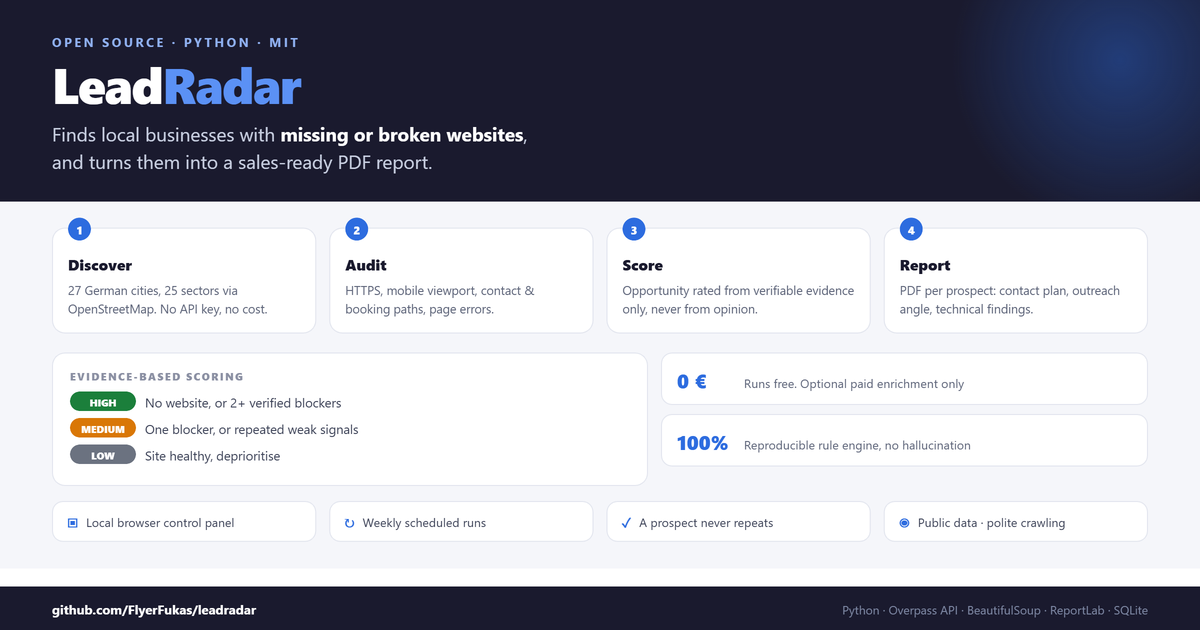
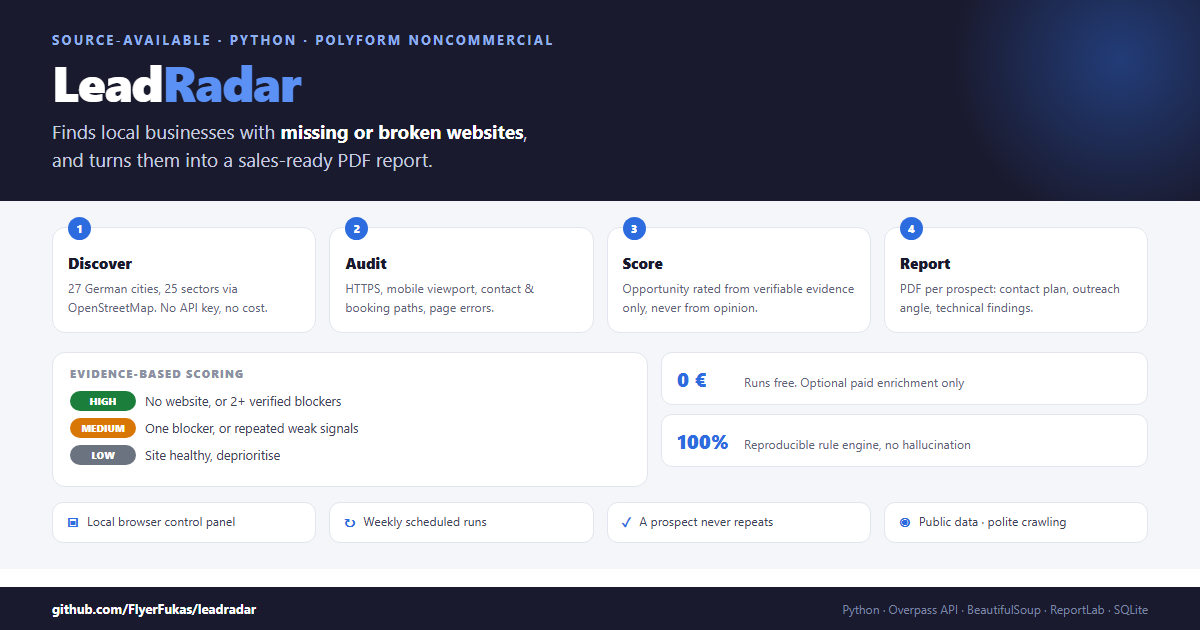
README: report image, result and demo command up top; cover no longer says MIT; repair punctuation left by dash removal

diff --git a/docs/cover-source.html b/docs/cover-source.html
@@ -38,7 +38,7 @@ h1 span{color:#5b91f5}
 .foot .stack{color:#7d87a3;font-size:12px}
 </style></head><body><div class="wrap">
 <div class="top">
-  <div class="eyebrow">OPEN SOURCE &middot; PYTHON &middot; MIT</div>
+  <div class="eyebrow">SOURCE-AVAILABLE &middot; PYTHON &middot; POLYFORM NONCOMMERCIAL</div>
   <h1>Lead<span>Radar</span></h1>
   <div class="tag">Finds local businesses with <b>missing or broken websites</b>,<br>
   and turns them into a sales-ready PDF report.</div>

diff --git a/README.md b/README.md
@@ -1,6 +1,6 @@
 # LeadRadar
 
-![LeadRadar — local business lead discovery & enrichment](docs/cover.png)
+![LeadRadar: local business lead discovery & enrichment](docs/cover.png)
 
 [![License: PolyForm Noncommercial](https://img.shields.io/badge/License-PolyForm%20Noncommercial-orange.svg)](LICENSE)
 [![Commercial use: licence required](https://img.shields.io/badge/Commercial%20use-licence%20required-red.svg)](COMMERCIAL.md)
@@ -8,7 +8,7 @@
 [![Data: OpenStreetMap](https://img.shields.io/badge/Data-OpenStreetMap-7EBC6F?logo=openstreetmap&logoColor=white)](https://www.openstreetmap.org/copyright)
 [![Platform](https://img.shields.io/badge/Platform-Windows%20%7C%20macOS%20%7C%20Linux-lightgrey)](#quick-start)
 
-**Local business lead discovery & enrichment.** Pick a city and a set of sectors
+**Local business lead discovery & enrichment.** Pick a city and a set of sectors:
 LeadRadar finds businesses with **missing or broken websites**, scores the opportunity
 from verifiable evidence, and produces a **sales-ready PDF report**.
 
@@ -16,11 +16,25 @@ Built for web designers, digital agencies, and local B2B sales teams.
 
 > 🇹🇷 Türkçe sürüm: [README.tr.md](README.tr.md)
 
+![One page of the generated PDF report](docs/report.png)
+
+**Result:** every prospect gets one page with its evidence. A score of HIGH needs
+either no website at all or at least two verified technical blockers; subjective
+signals such as an old copyright year are marked `[HEURISTIC]` and can never
+produce HIGH on their own (rules in `leadradar/score.py`).
+
+```bash
+py run.py --limit 5    # scans 5 prospects, writes output/LeadRadar_Lead_Raporu_<City>_<date>_<time>.pdf
+```
+
+> Source-available: free for noncommercial use (PolyForm Noncommercial 1.0.0);
+> commercial use requires a licence, see [COMMERCIAL.md](COMMERCIAL.md).
+
 ---
 
 ## The control panel
 
-Pick a city, optional districts and any number of sectors then start the scan
+Pick a city, optional districts and any number of sectors, then start the scan
 and watch progress stream live in the browser.
 
 ![LeadRadar control panel](docs/panel.png)
@@ -29,18 +43,18 @@ and watch progress stream live in the browser.
 
 ## What it does
 
-- 🗺 **Discovery** Scans businesses across **27 German cities** and **25 sectors**
+- 🗺 **Discovery:** scans businesses across **27 German cities** and **25 sectors**
   via OpenStreetMap (Overpass API). No API key required, completely free.
-- 🔍 **Website audit** Tests each prospect's site: HTTPS, mobile-friendliness
+- 🔍 **Website audit:** tests each prospect's site: HTTPS, mobile-friendliness
   (viewport), working contact paths, broken booking links, page errors.
-- 🎯 **Evidence-based scoring** HIGH / MEDIUM / LOW opportunity score. Scores are
+- 🎯 **Evidence-based scoring:** HIGH / MEDIUM / LOW opportunity score. Scores are
   derived **only from verified findings**; subjective impressions ("looks outdated")
   are tracked separately and can never on their own produce a HIGH score.
-- 🧠 **Deduplication** Previously reported businesses never appear again
+- 🧠 **Deduplication:** previously reported businesses never appear again
   (SQLite fingerprint memory).
-- 📄 **PDF report** One page per prospect: parameters → contact details and an
+- 📄 **PDF report:** one page per prospect: parameters → contact details and an
   outreach plan → website issues with a technical audit table.
-- 🖥 **Local control panel** Pick city, districts, and sectors in your browser,
+- 🖥 **Local control panel:** pick city, districts, and sectors in your browser,
   then start the scan and watch live progress.
 
 ---
@@ -54,7 +68,7 @@ py -m pip install -r requirements.txt
 py panel.py
 ```
 
-Your browser opens at **http://127.0.0.1:8765** select a city, optional districts and
+Your browser opens at **http://127.0.0.1:8765**: select a city, optional districts and
 sectors, then hit "Start scan". Progress streams live and a link to the PDF appears when
 the run finishes.
 
@@ -69,7 +83,7 @@ py run.py --limit 5      # quick trial with fewer prospects
 
 ---
 
-## 🔑 Firecrawl (optional) bring your own account
+## 🔑 Firecrawl (optional): bring your own account
 
 LeadRadar **works fully without Firecrawl.** When enabled, it adds two capabilities:
 
@@ -77,7 +91,7 @@ LeadRadar **works fully without Firecrawl.** When enabled, it adds two capabilit
 2. Properly scrapes **JavaScript-rendered websites**
 
 **Important:** this repository contains **no API keys**. The key is read from your own
-machine at runtime so anyone who clones this project uses **their own Firecrawl
+machine at runtime, so anyone who clones this project uses **their own Firecrawl
 account and their own credits**. Nobody else's credits are ever consumed.
 
 The key is resolved in this order:
@@ -126,7 +140,7 @@ Selection (businesses without a website first)
    ↓
 Website audit (HTTPS · mobile · contact · broken links · errors)
    ↓
-Scoring (HIGH / MEDIUM / LOW evidence only)
+Scoring (HIGH / MEDIUM / LOW, evidence only)
    ↓
 Persist + PDF report
 ```
@@ -159,7 +173,7 @@ powershell -ExecutionPolicy Bypass -File haftalik_zamanlama.ps1
 | System guide (PDF) | `docs/LeadRadar_Sistem_Rehberi.pdf` |
 | Memory (SQLite) | `data/leads.db` |
 
-Every run produces a **separate file** earlier reports are never overwritten.
+Every run produces a **separate file**; earlier reports are never overwritten.
 `output/` and `data/` hold real business data and are therefore **excluded from the
 repository** (see `.gitignore`).
 
@@ -170,7 +184,7 @@ repository** (see `.gitignore`).
 - Business data: [OpenStreetMap](https://www.openstreetmap.org/copyright) (ODbL)
 - Website audit: the business's own publicly accessible website
 - Polite crawling: delays between requests, a single page request per site
-- The system never sends messages on your behalf outreach is always your decision
+- The system never sends messages on your behalf; outreach is always your decision
 - Only publicly available business information is used
 
 ---
